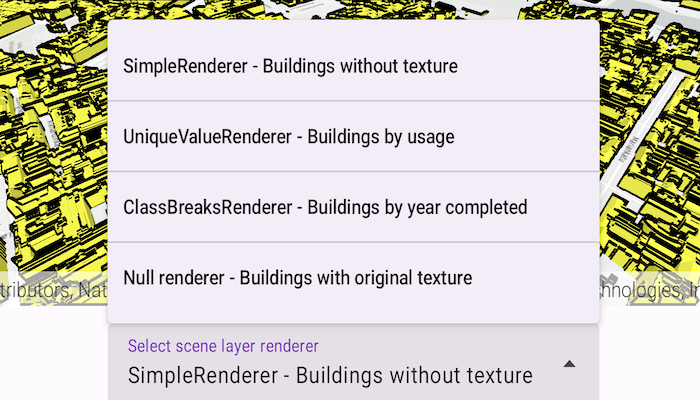
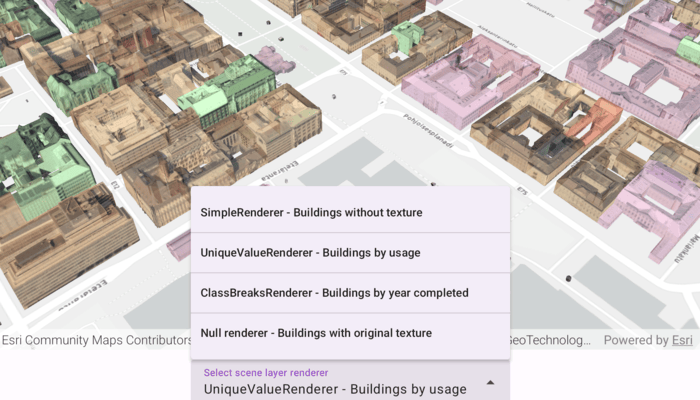
used screenshot from Shubham

diff --git a/samples/apply-renderers-to-scene-layer/src/main/java/com/esri/arcgismaps/sample/applyrendererstoscenelayer/components/ApplyRenderersToSceneLayerViewModel.kt b/samples/apply-renderers-to-scene-layer/src/main/java/com/esri/arcgismaps/sample/applyrendererstoscenelayer/components/ApplyRenderersToSceneLayerViewModel.kt
@@ -240,7 +240,7 @@ class ApplyRenderersToSceneLayerViewModel(app: Application) : AndroidViewModel(a
     }
 
     /**
-     * Switches the selected renderer according to the selected type.
+     * Switches the selected renderer according to the renderer type.
      */
     fun updateSceneLayerRenderer(rendererType: RendererType) {
         _selectedRendererType.value = rendererType
